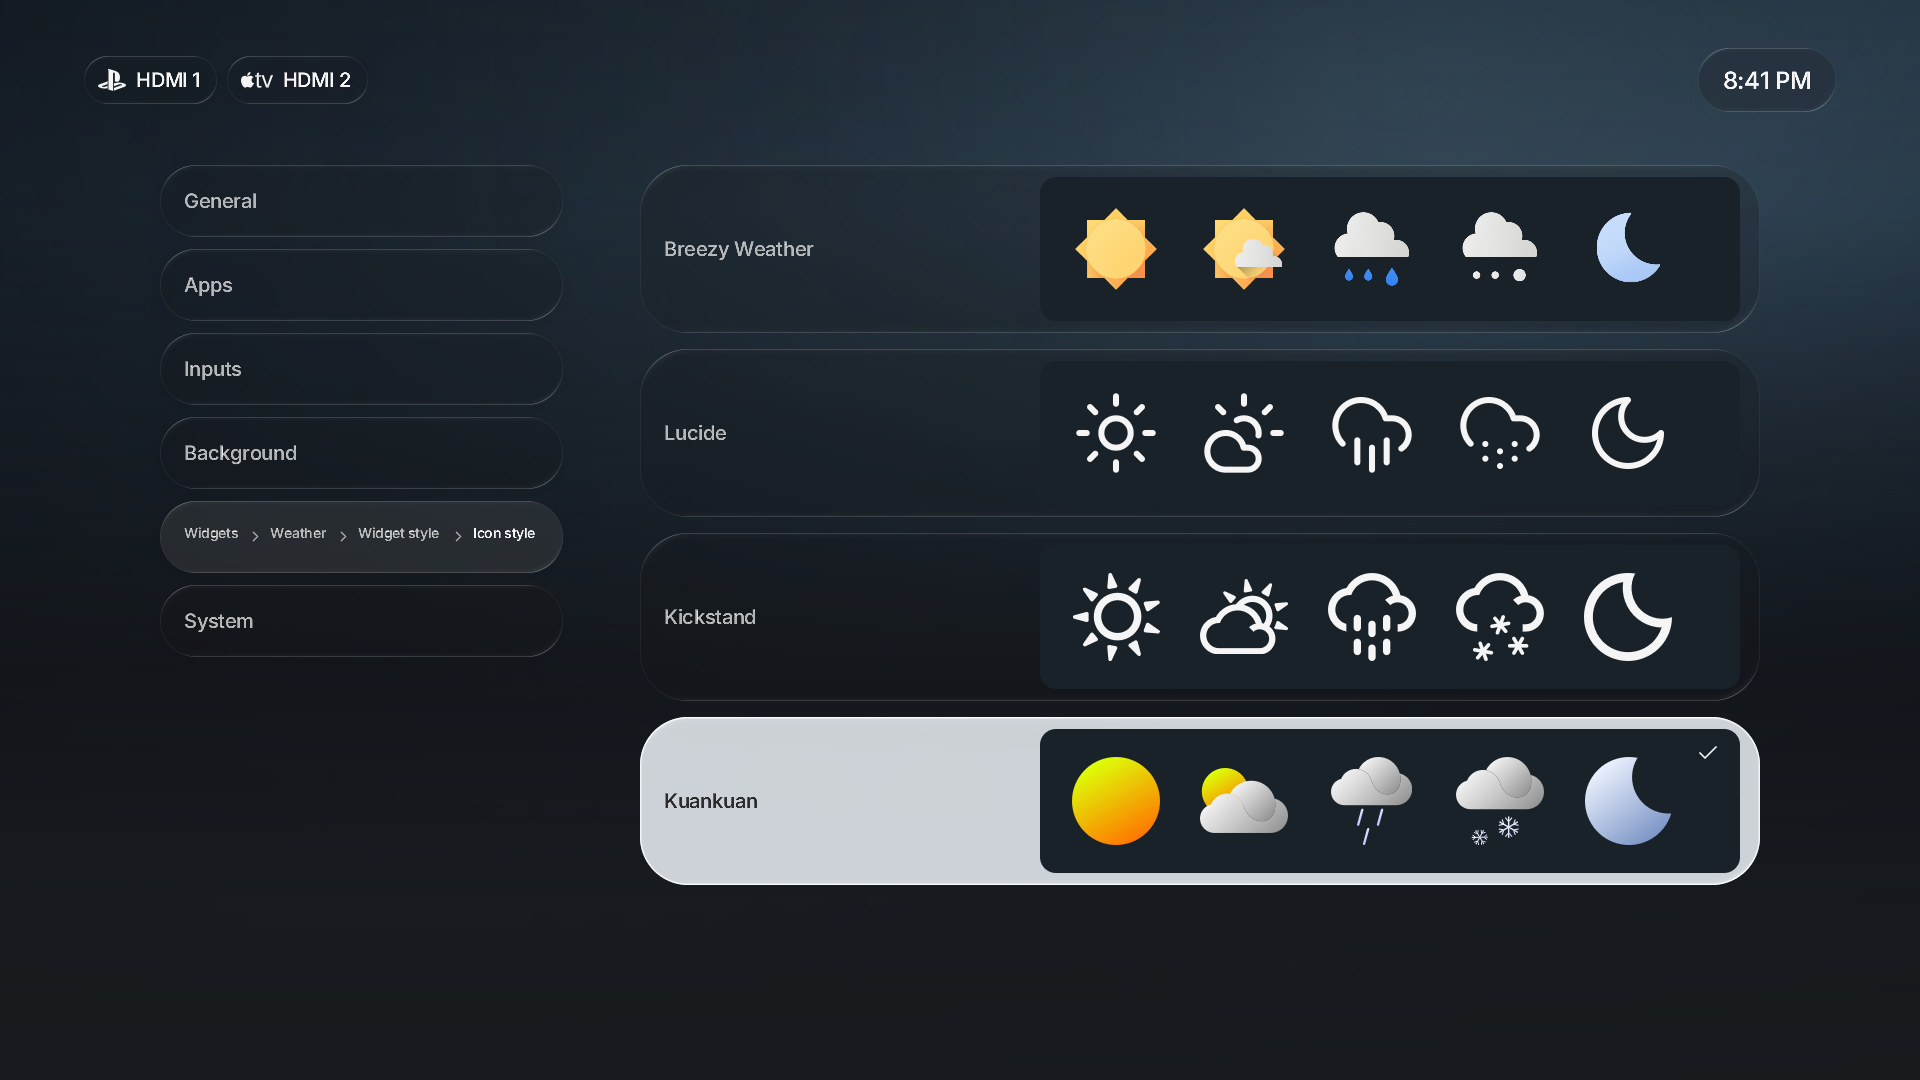
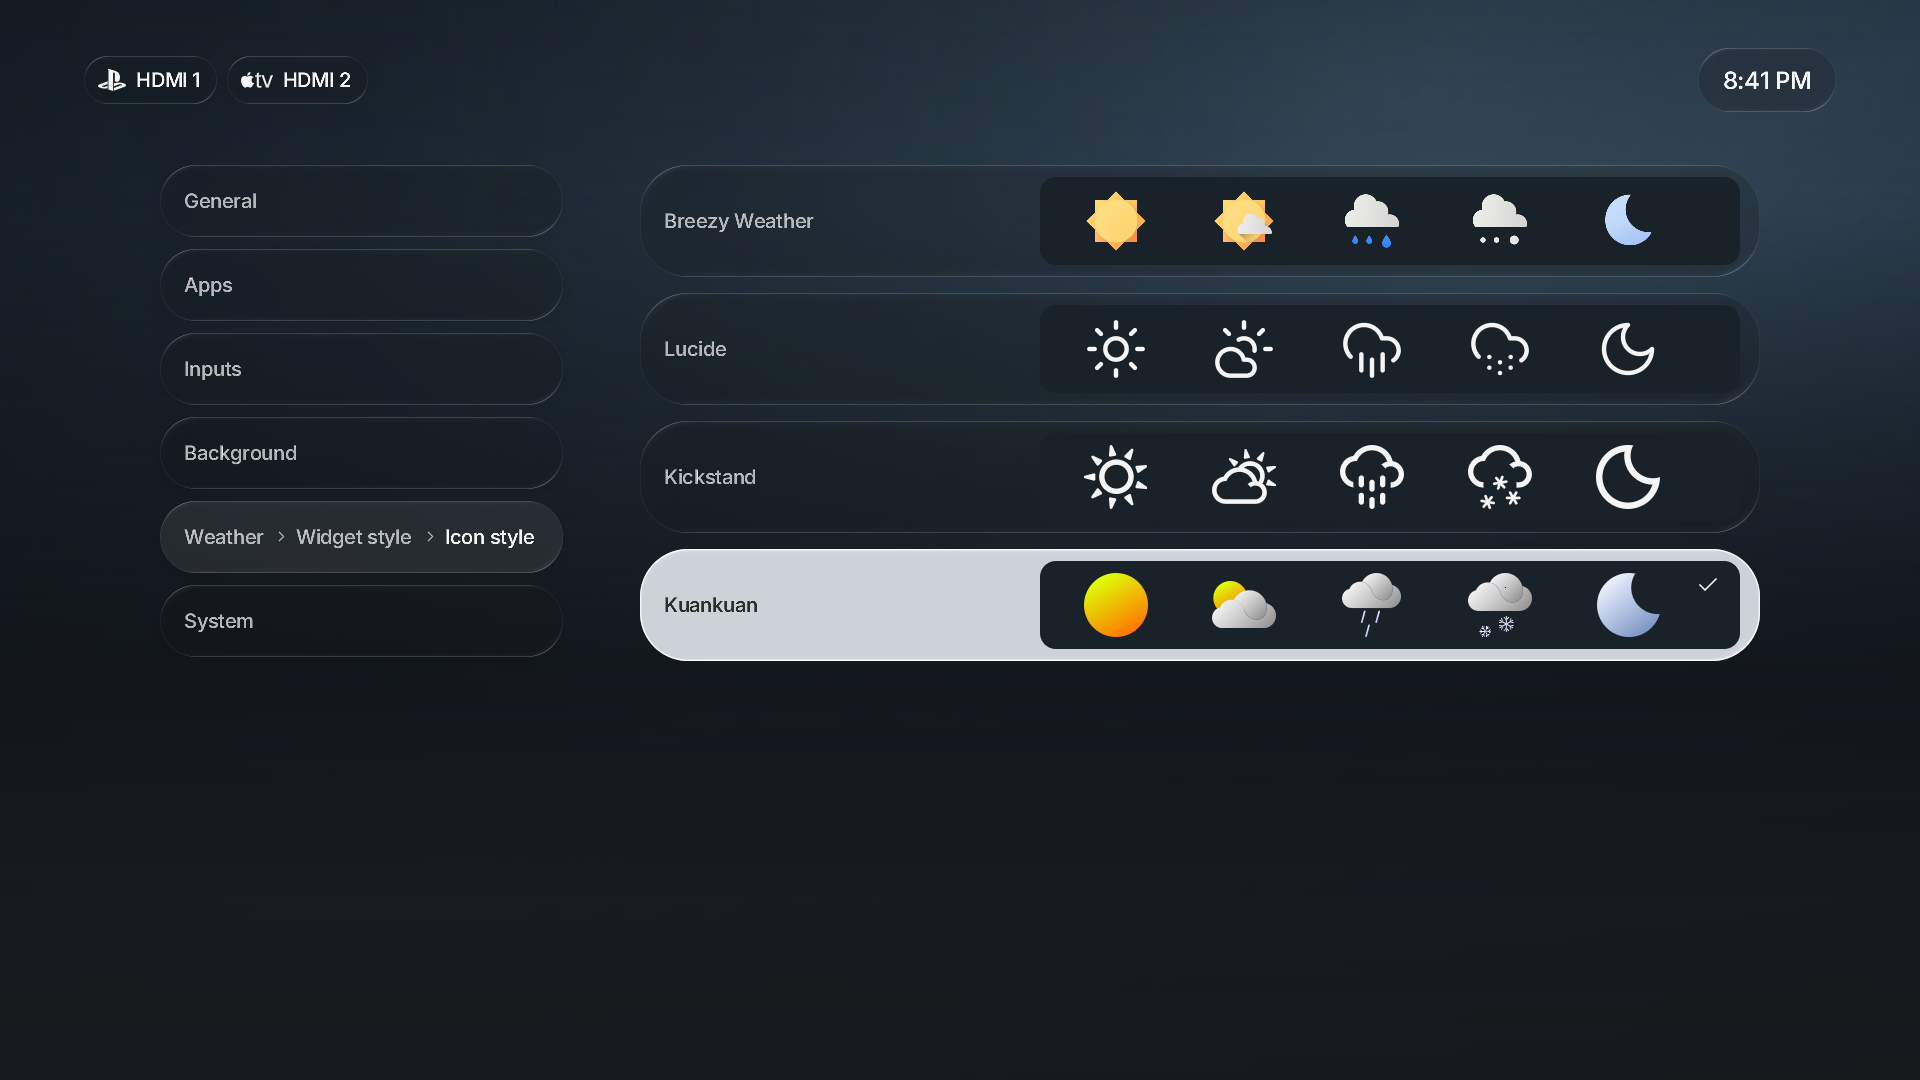
fix(settings): compact weather previews and cap breadcrumbs

diff --git a/src/weather-style-tests.rs b/src/weather-style-tests.rs
@@ -89,6 +89,52 @@ fn appearance_controls_live_inside_widget_style_and_update_previews_immediately(
 }
 
 #[test]
+fn icon_picker_has_compact_rows_and_sidebar_keeps_only_the_last_three_levels() {
+    for language in crate::i18n::Language::ALL {
+        let mut state = configured();
+        state.preferences.language = language;
+        state.open(2);
+        state.section = WIDGETS_SECTION;
+        state.subpage = Some(Subpage::WeatherIcons);
+        state.focus = Target::Choice(0);
+        let rendered = scene(&state);
+        let breadcrumb: Vec<_> = rendered
+            .draw
+            .iter()
+            .filter_map(|draw| match draw {
+                Draw::Text(label, rect, ..)
+                    if rect.x >= 160. && rect.x < 564. && rect.y > 500. && rect.y < 574. =>
+                {
+                    Some(label.as_str())
+                }
+                _ => None,
+            })
+            .collect();
+        assert_eq!(
+            breadcrumb,
+            [
+                language.t("weather"),
+                language.t("weatherStyle"),
+                language.t("weatherIconStyle")
+            ]
+        );
+        for index in 0..4 {
+            let row = rendered
+                .controls
+                .iter()
+                .find(|c| c.target == Target::Choice(index))
+                .unwrap();
+            assert_eq!(row.rect.h, 112.);
+            let (x, y) = row.rect.center();
+            assert_eq!(
+                state.hit_test(&rendered.controls, x, y),
+                Some(Target::Choice(index))
+            );
+        }
+    }
+}
+
+#[test]
 fn weather_icon_preferences_default_to_breezy_and_round_trip_per_instance() {
     use crate::model::{HomeWidget, WeatherIconStyle};
     let old: Preferences = serde_json::from_str(r#"{"extra_weather":[{}]}"#).unwrap();

diff --git a/src/view.rs b/src/view.rs
@@ -2322,9 +2322,9 @@ fn weather_icon_settings(out: &mut Scene, state: &State, assets: &Assets) {
     for (index, style) in WeatherIconStyle::ALL.into_iter().enumerate() {
         let rect = Rect::new(
             640.,
-            164.8 + index as f32 * 184. - state.scroll,
+            164.8 + index as f32 * 128. - state.scroll,
             1120.,
-            168.,
+            112.,
         );
         row(
             out,
@@ -2342,7 +2342,7 @@ fn weather_icon_settings(out: &mut Scene, state: &State, assets: &Assets) {
             },
         );
         out.shape(
-            Rect::new(1040., rect.y + 12., 700., 144.),
+            Rect::new(1040., rect.y + 12., 700., 88.),
             16.,
             c(0x192129, 1.),
         );
@@ -2355,7 +2355,7 @@ fn weather_icon_settings(out: &mut Scene, state: &State, assets: &Assets) {
                 assets,
                 style,
                 condition,
-                Rect::new(1072. + position as f32 * 128., rect.y + 40., 88., 88.),
+                Rect::new(1084. + position as f32 * 128., rect.y + 24., 64., 64.),
             );
         }
         if style == config.icons {
@@ -2767,6 +2767,9 @@ fn settings_sidebar(out: &mut Scene, state: &State, assets: &Assets) {
             };
             let mut path = vec![label];
             path.extend(nested_path.unwrap_or_else(|| vec![sub]));
+            // Preserve the current page and its nearest parents instead of
+            // shrinking an arbitrarily deep breadcrumb into the sidebar pill.
+            let path = &path[path.len().saturating_sub(3)..];
             let gap = 6.;
             let chevron_size = 17.;
             let separators_width = (path.len() - 1) as f32 * (gap * 2. + chevron_size);

diff --git a/development.md b/development.md
@@ -370,7 +370,9 @@ with a tighter 48-pixel spacing for Languages and Backgrounds.
 The weekday/date is part of the combined Greeting, not a standalone widget. Weather uses its
 own fixed footprint with a large condition icon, temperature, condition and optional location.
 Breezy Weather remains the default icon style. Weather → Widget style → Icon style offers Breezy Weather,
-Lucide, Kickstand and Kuankuan with offline condition samples. `weather_icons` stores the primary
+Lucide, Kickstand and Kuankuan with offline condition samples in compact 112-pixel picker rows
+with 64-pixel icons. Sidebar breadcrumbs show at most the
+last three levels, retaining the current page and its closest parents. `weather_icons` stores the primary
 choice; additional instances use `icons`. Lucide, Kickstand and Kuankuan compile to vector meshes;
 Breezy retains its original PNGs. No icons are fetched at runtime. Sources, licenses, adaptations
 and mappings are documented in `assets/weather/README.md`; Kuankuan's preferred editable `.ai`
